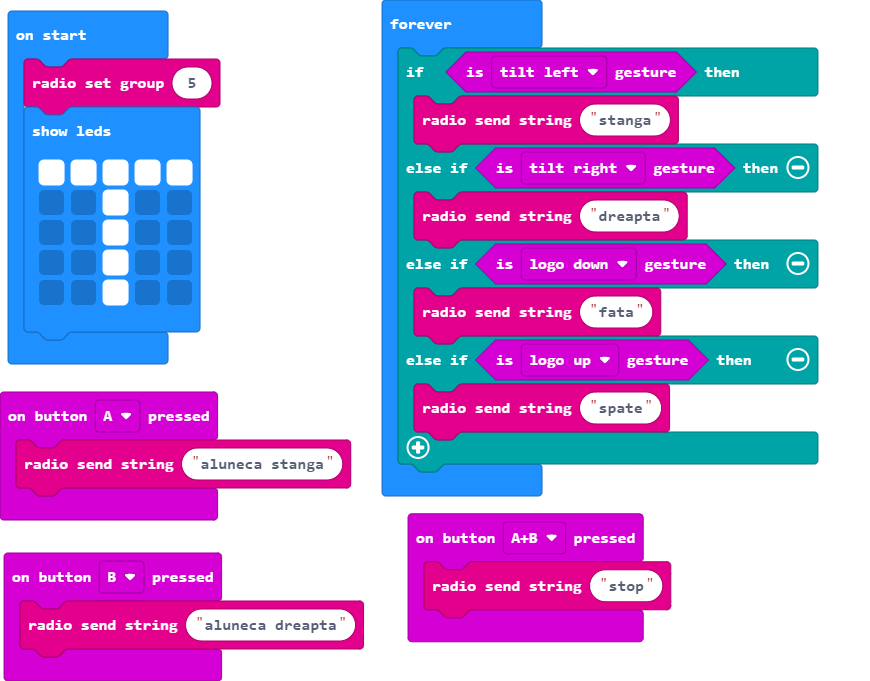
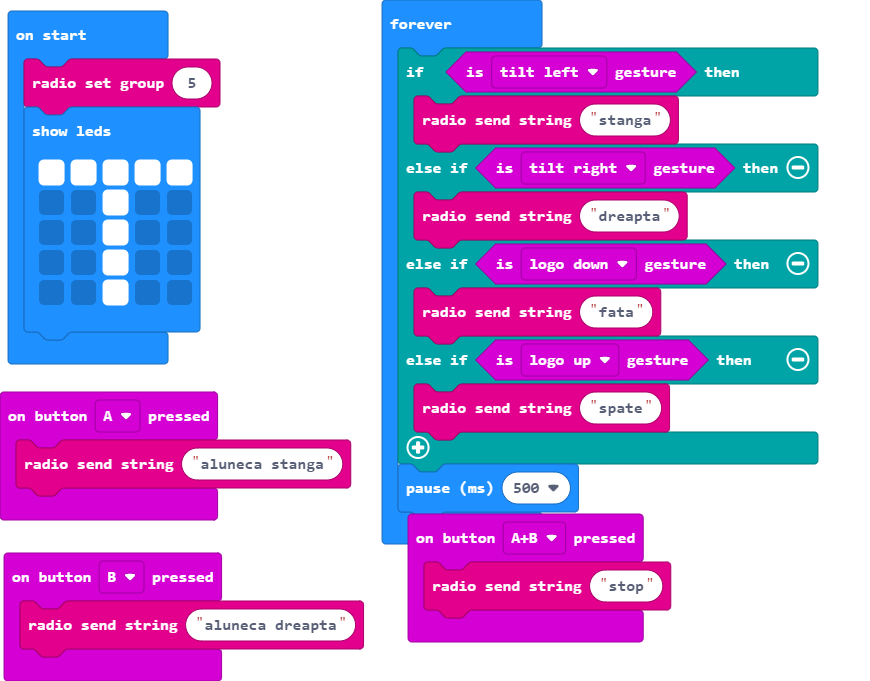
Update main.blocks, main.ts

Changed region(s): [[0.4345, 0.6784, 0.6828, 0.8018]]

diff --git a/main.ts b/main.ts
@@ -25,4 +25,5 @@ basic.forever(function () {
     } else if (input.isGesture(Gesture.LogoUp)) {
         radio.sendString("spate")
     }
+    basic.pause(500)
 })
